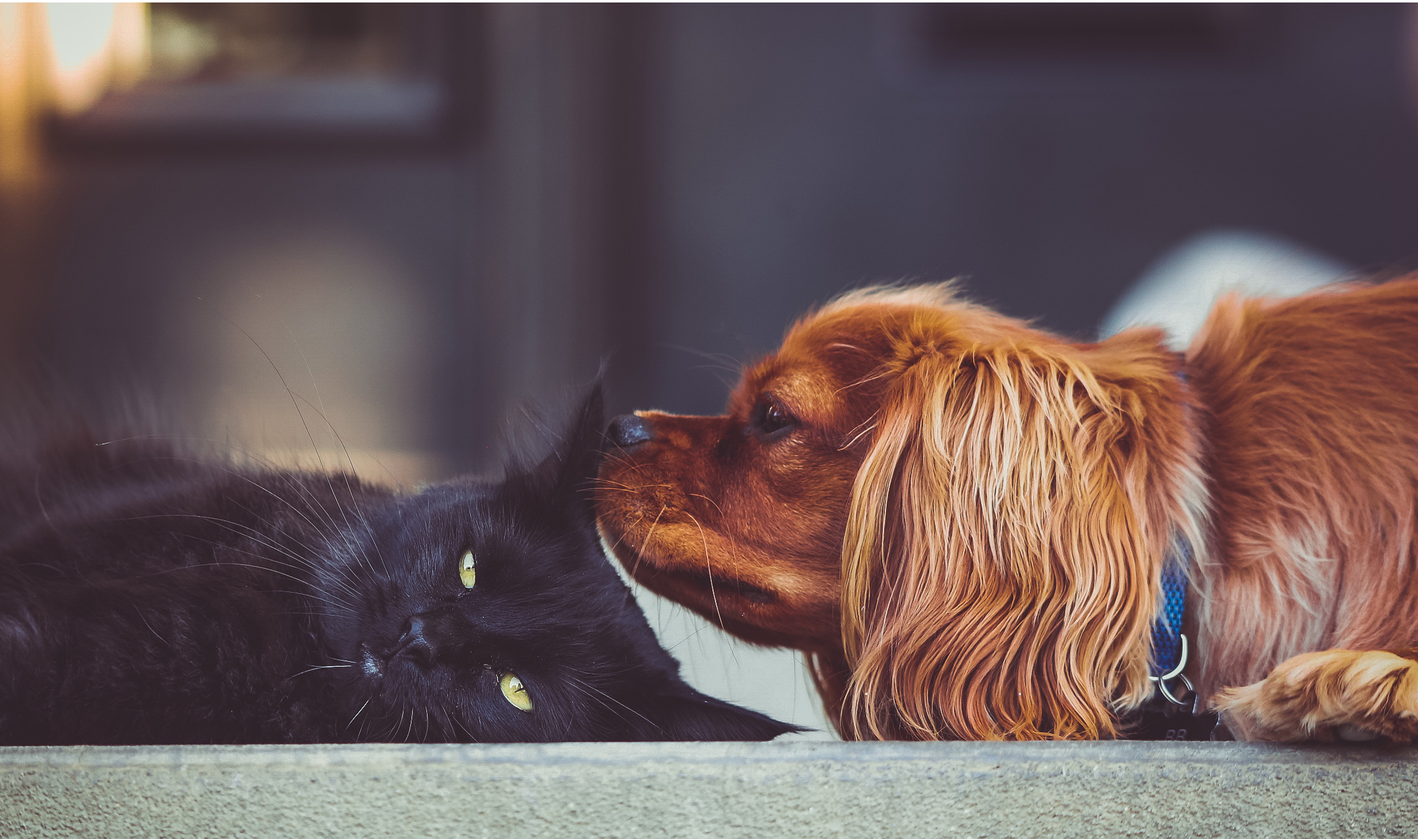
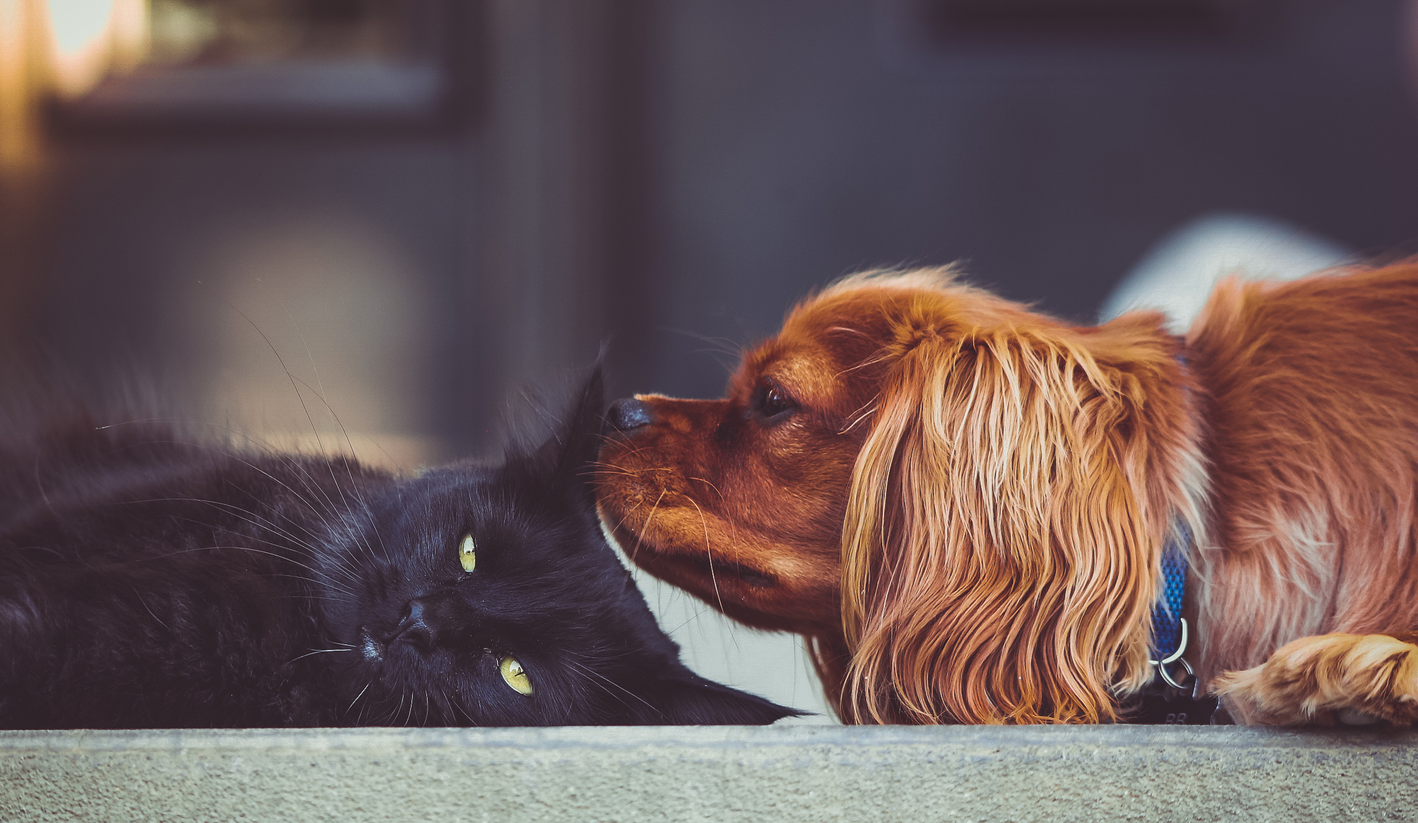
fixed line in photo

diff --git a/styles/main.css b/styles/main.css
@@ -4,8 +4,13 @@
   border-color: red;
 }*/
 
+html {
+  box-sizing: border-box;
+}
 
-
+*, *:before, *:after {
+  box-sizing: inherit;
+}
 header {
   /*border-bottom: : 10px;
   border-color: black;*/
@@ -124,16 +129,21 @@ padding: 30px;
 }*/
 
 section#popular-posts {
+  padding: 10px;
+  margin-bottom: 100px;
+}
 
-  /*padding: 10px;*/
-  /*margin: 40px;*/
+.clearfix:after {
+    content:" ";
+    display:table;
+    clear:both;
 }
 
 div {
   margin: 30px;
   padding:10px;
   width: 95%;
-  height: 980px;
+  /*height: 980px;*/
 }
 
 /*#popular-posts {
@@ -163,6 +173,15 @@ div {
   margin: 20px;
 
   text-align: center;
+}
+
+#popular-posts h3 {
+  border-bottom: solid #000;
+  border-width: 3 5px;
+  padding-bottom: 10px;
+  margin: 0px;
+  margin-right: -10px;
+  margin-left: -10px;
 }
 
 #popular-posts a {
@@ -204,6 +223,7 @@ div {
   background-color: grey;
   margin: -10px;
 
+
 }
 
 #join-the-club h2 {
@@ -216,7 +236,7 @@ div {
   float: left;
   width: 45%;
   text-align: justify;
-  padding: 40px;
+  padding: 50px;
 
 
 }
@@ -259,9 +279,8 @@ div {
 #everybody img {
   clear: both;
   position: relative;
-  background-size: cover;
+  /*background-size: cover;*/
   width: 100%;
-  height: 600px;
   top: 0px;
 }
 

diff --git a/index.html b/index.html
@@ -26,7 +26,7 @@
       <h1> Meowspace </h1>
     </section>
 
-    <section id="popular-posts">
+    <section id="popular-posts" class="clearfix">
       <div>
       <h2> Popular Posts </h2>
 
